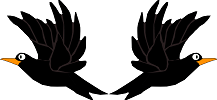
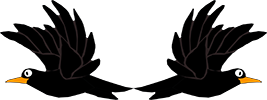
bird code aangepast

diff --git a/Birdhunter/OOPG-Birdhunter/src/main/java/nl/han/ica/birdhunter/Bird.java b/Birdhunter/OOPG-Birdhunter/src/main/java/nl/han/ica/birdhunter/Bird.java
@@ -19,7 +19,7 @@ public class Bird extends AnimatedSpriteObject {
 	private boolean isShot;
 
 	public Bird(Birdhunter world) {
-		super(new Sprite("src/main/java/nl/han/ica/birdhunter/media/bird.png"), 2);
+		super(new Sprite("src/main/java/nl/han/ica/birdhunter/media/bird-sprite.png"), 4);
 		this.world = world;
 		random = new Random();
 		setCurrentFrameIndex(1);
@@ -33,10 +33,10 @@ public class Bird extends AnimatedSpriteObject {
 		setY(birdY);
 		if (vanRechts) {
 			setX(0);
-			setCurrentFrameIndex(1);
+			setCurrentFrameIndex(2);
 		} else {
 			setX(1920);
-			setCurrentFrameIndex(0);
+			setCurrentFrameIndex(1);
 		}
 
 	}
@@ -51,13 +51,14 @@ public class Bird extends AnimatedSpriteObject {
 	@Override
 	public void update() {
 		if (vanRechts) {
-			setDirectionSpeed(90, 10);
+			setDirectionSpeed(90, 7);
 			if (getX() > world.getWidth()) {
 				world.deleteGameObject(this);
 			}
 			
 			if(isShot) {
-				setDirectionSpeed(160, 15);
+				setDirectionSpeed(160, 20);
+				setCurrentFrameIndex(3);
 				if (getY() > 800) {
 					world.deleteGameObject(this);
 				}
@@ -70,7 +71,8 @@ public class Bird extends AnimatedSpriteObject {
 			}
 			
 			if(isShot) {
-				setDirectionSpeed(200, 15);
+				setDirectionSpeed(200, 20);
+				setCurrentFrameIndex(0);
 				if (getY() > 800) {
 					world.deleteGameObject(this);
 				}

diff --git a/Birdhunter/OOPG-Birdhunter/src/main/java/nl/han/ica/birdhunter/Birdhunter.java b/Birdhunter/OOPG-Birdhunter/src/main/java/nl/han/ica/birdhunter/Birdhunter.java
@@ -30,7 +30,7 @@ public class Birdhunter extends GameEngine{
 	@Override
 	public void setupGame() {
 		 createViewWithoutViewport(1920, 1080);
-		 BirdSpawner b = new BirdSpawner(this, 200);
+		 BirdSpawner b = new BirdSpawner(this, 5);
 	}
 
 	@Override
